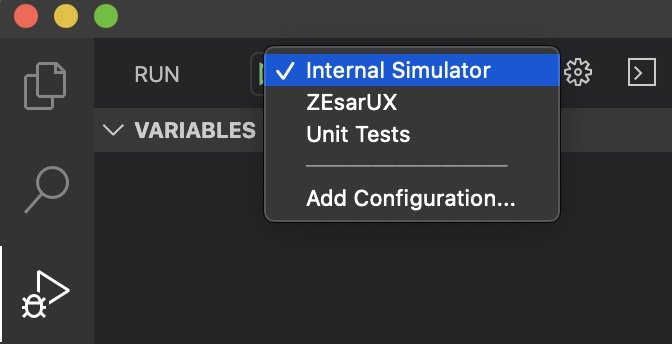
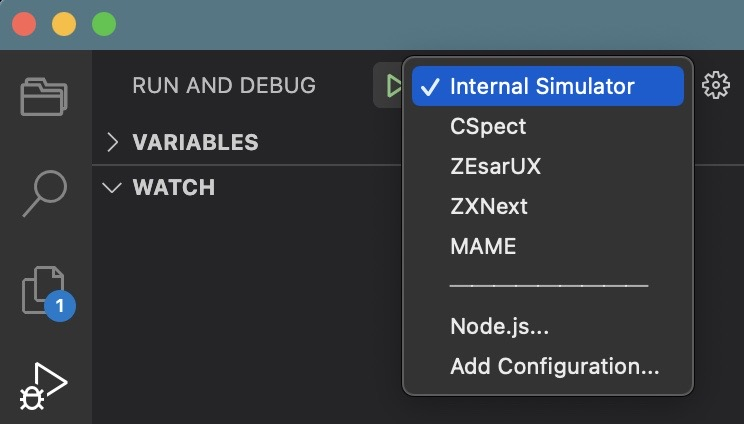
Readme update.

diff --git a/readme.md b/readme.md
@@ -10,14 +10,17 @@ The intention is to use this as a kind of tutorial for [DeZog (Z80 debugger)](ht
 # Prerequisites
 
 - Visual Studio Code (vscode)
-- [DeZog](https://github.com/maziac/DeZog) (>= v2.4.0)
+- [DeZog](https://github.com/maziac/DeZog) (>= v3.0.0)
 
 The program runs in the internal Z80 simulator but you can **optionally** run it on another emulator:
-- the ZEsarUX emulator, https://github.com/chernandezba/zesarux  (>= v9.2)
-- the CSpect emulator, http://dailly.blogspot.com  (>= v2.14.08)
+- the ZEsarUX emulator, https://github.com/chernandezba/zesarux  (known to work: v10.2)
+- the CSpect emulator, http://dailly.blogspot.com  (known to work: v2.16.6)
+- MAME, https://www.mamedev.org (known to work: v0.248)
+
+You can also run it on a "real" [ZX Spectrum Next](https://www.specnext.com) computer.
 
 If you want to build the Z80 binary yourself (not required if you just want to test debugging):
-- Z80 Assembler: sjasmplus, https://github.com/z00m128/sjasmplus
+- Z80 Assembler: sjasmplus, https://github.com/z00m128/sjasmplus (known to work: v1.19).
 
 
 # Building
@@ -27,16 +30,16 @@ The binaries are included in this repository so that you could also directly sta
 
 However, if you would like to do some changes you need to compile.
 From the menu choose "Terminal->Run Build Task..."
-tasks.json is configured such that it will call sjasmplus with the required parameters.
+tasks.json is configured such that it will call sjasmplus with the required parameters. (Please note that you probably have to adjust the path to sjasmplus.)
 
 There are several .asm files which are all included in the main.asm file. This file is the one being assembled.
 
-After the build is ready a z80-sample-program.sna file is created which can be used with ZEsarUX.
+After the build is ready a z80-sample-program.sna file is created which can be used with the internal simulator, ZEsarUX, CSpect or MAME.
 
 
 # Running the Debugger with the Internal Z80 Simulator
 
-The project comes with 3 configurations. one for ZEsarUX, one for the internal Z80 simulator and one for Z80 unit tests.
+The project comes with 6 configurations. One for the internal Z80 simulator,one for ZEsarUX, one for CSpect, one for MAME and one for the unit tests.
 
 Choose the Z80 simulator first:
 ![](documentation/images/dbg_select_zsim.jpg)
@@ -58,7 +61,9 @@ From here you can:
 - change register values: a double click on the value of a register in the REGISTER area will allow you to enter a different value.
 
 The internal Z80 simulator does allow only basic Z80 or ZX 48K/128K debugging and is slow.
-For real emulation and other features (like ZXNext HW emulation) setup [ZEsarUX](#debug-with-zesarux).
+For real emulation and other features (like ZXNext HW emulation) setup [ZEsarUX](#debug-with-zesarux), [CSpect](#debug-with-cspect) or [MAME](#debug-with-mame).
+
+You can even [debug on a "real" ZX Next](#debug-with-a-zx-next-computer) if you like.
 
 
 # The Program Itself
@@ -71,8 +76,8 @@ The program is only for educational purposes. It does nothing more than drawing 
 It does so by manipulating the color screen area (0x5800).
 
 The action takes place in the 'main_loop':
-1. it draws a one color line
-2. it waits for half a second
+1. it draws one colored line
+2. it waits for a few moments
 3. it proceeds to the next line
 4. loop from 1
 
@@ -80,7 +85,7 @@ The action takes place in the 'main_loop':
 # Debug with ZEsarUX
 
 To debug the project first start ZEsarUx and enable the remote port (RCP) either by command line (--enable-remoteprotocol) or from the UI ('Settings->Debug->Remote protocol' to 'Enabled').
-The debug adapter uses the port 10000 which is ZEsarUX default, so you can leave this unchanged.
+DeZog uses the port 10000 which is ZEsarUX default, so you can leave this unchanged.
 
 When ZEsarUX is up and running start debugging from vscode.
 Select ZEsarUX and press the green triangle:
@@ -107,6 +112,38 @@ From here you can:
 
 
 # Debug with CSpect
+
+To debug the project first start [CSpect](http://dailly.blogspot.com).
+
+Start CSpect from the console to verify that the DeZog/CSpect Plugin has started. You should see an output like "DeZog plugin started." followed by the port address the plugin is listening to.
+
+When CSpect is up and running start debugging from vscode.
+Select CSpect and press the green triangle:
+![](documentation/images/dbg_select_cspect.jpg)
+
+Now the following happens:
+
+1. A socket DZRP connection is opened to CSpect
+2. The snapshot (z80-sample-program.sna) is loaded to CSpect
+3. The breakpoints are reset.
+4. The .sld file is read
+5. vscode requests the 'CALL STACK' and the 'VARIABLES' from CSpect
+
+
+You should be left with a stopped program like before with the Z80 simulator.
+
+From here you can:
+- step into, step over, step-out
+- click on the call stack: It will navigate directly to the asm file.
+- hover over register in the asm file: It will show the values and also (if available) the corresponding labels.
+- change register values: a double click on the value of a register in the REGISTER area will allow you to enter a different value.
+
+![](documentation/images/cspect_z80_sample_prg_run.gif)
+
+Note: DeZog uses a CSpect dll (DeZogPlugin.dll) for communication. In the past this was a separate program, nowadays it comes bundled with CSpect and is automatically started with CSpect.
+
+
+# Debug with MAME
 
 To debug the project first start [CSpect](http://dailly.blogspot.com) together with the [DeZog/CSpect Plugin](https://github.com/maziac/DeZogPlugin).
 The plugin DLL needs to be placed in the same direct as the CSpect.exe.
@@ -137,7 +174,7 @@ From here you can:
 ![](documentation/images/cspect_z80_sample_prg_run.gif)
 
 
-# Debug with  ZX Next Computer
+# Debug with a ZX Next Computer
 
 To debug on a ZX Next you need serial cable to connect your PC/Mac with the ZX Next.
 There is also some setup required on the ZX Next.
@@ -163,6 +200,8 @@ If everything is setup, start the ZXNext configuration (green triangle):
 # Unit Tests
 
  The program also includes some unit tests to test the different memory fill subroutines.
+ This configuration is hidden, i.e. you can't select it like the others in the vscode UI.
+ But it is there in launch.json and it is used for executing and debugging the unit tests.
  DeZog (as of v2.4.0) includes the functionality to run the unit tests from the
  vscode graphical UI (the test explorer).
 
